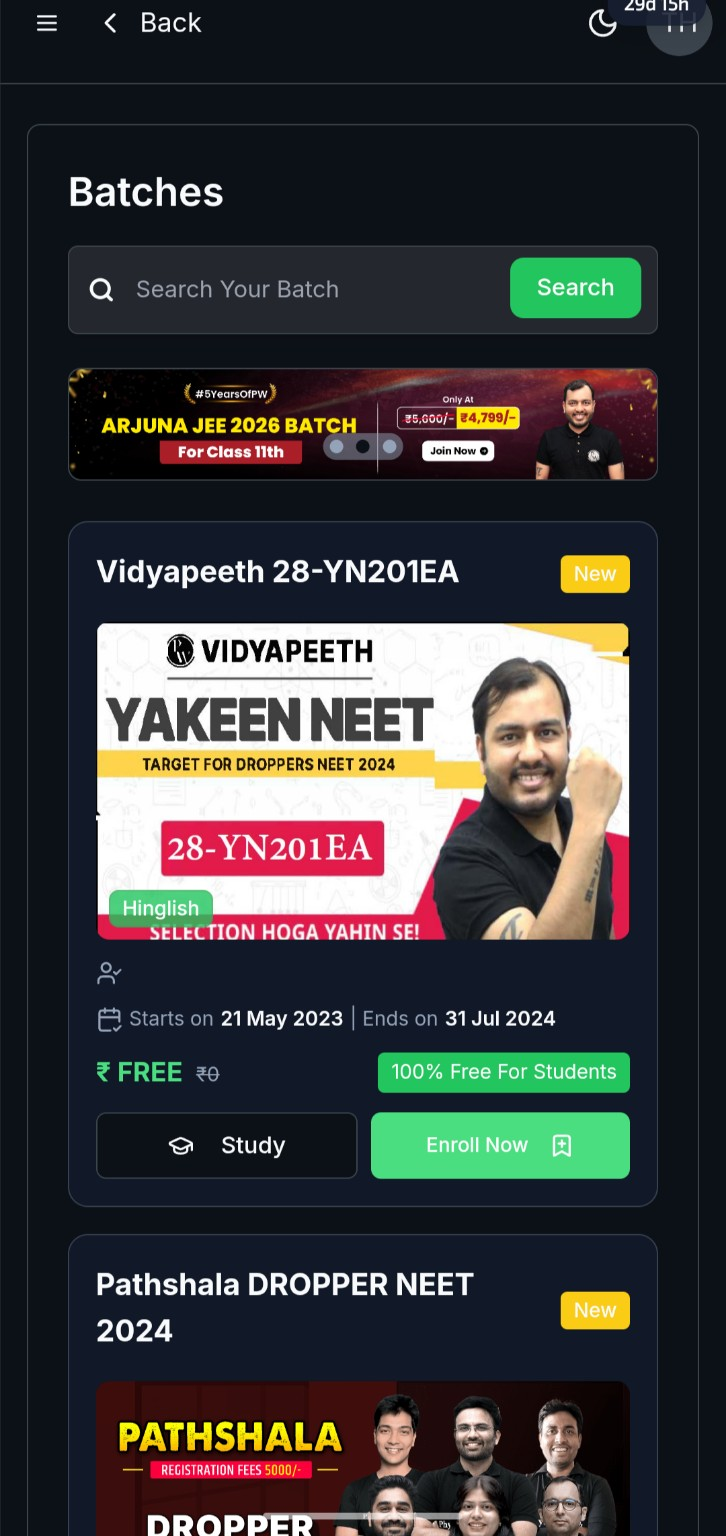
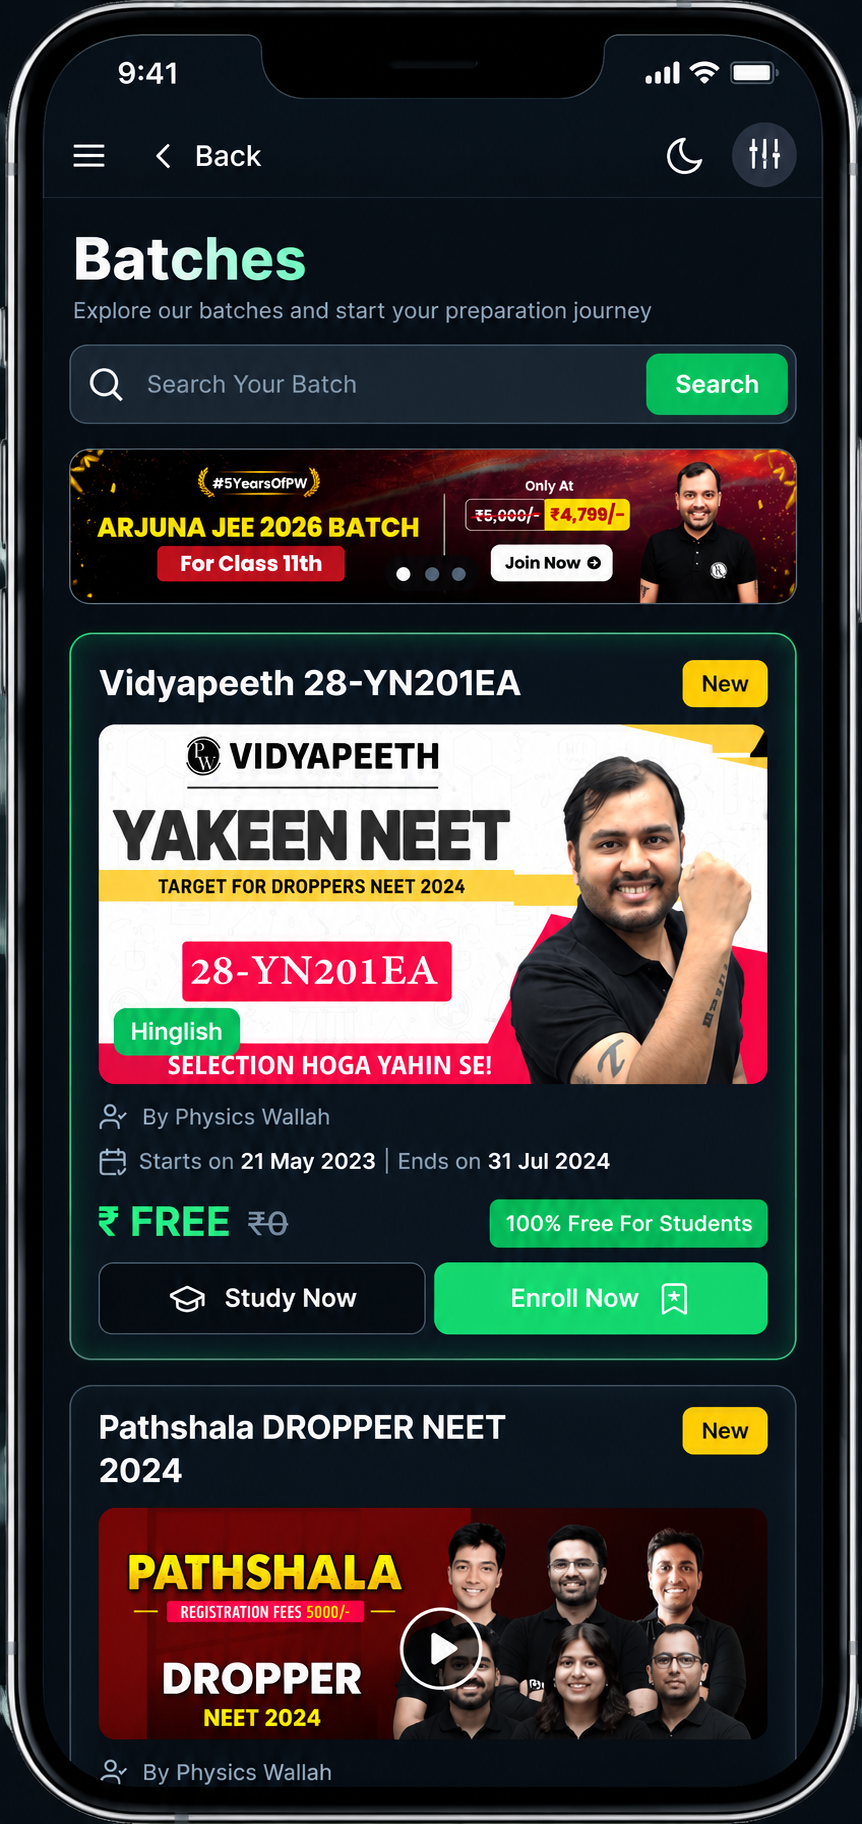
Add files via upload

diff --git a/style.css b/style.css
@@ -1,1 +1,4 @@
 *{box-sizing:border-box}html{scroll-behavior:smooth}body{margin:0;font-family:Inter,Arial,sans-serif;color:#111722;background:#fff}.container{width:min(1180px,calc(100% - 40px));margin:auto}a{text-decoration:none;color:inherit}.site-header{height:76px;background:#080d13;color:#fff;position:sticky;top:0;z-index:99;border-bottom:1px solid #1e252e}.nav{height:100%;display:flex;align-items:center;justify-content:space-between;gap:25px}.brand{display:flex;align-items:center;font-size:25px;font-weight:800;letter-spacing:-1.2px}.brand b{color:#ed101c}.brand small{display:block;color:#9aa2ad;font-size:8px;letter-spacing:.2px;margin-top:4px}.brand-icon{width:34px;height:34px;background:#fff;color:#0a0f15;border-radius:9px;display:grid;place-items:center;margin-right:9px;font-size:15px}.nav nav{height:100%;display:flex;align-items:center;gap:38px}.nav nav a{font-size:12px;font-weight:700;height:100%;display:flex;align-items:center;position:relative;color:#d9dde2}.nav nav a.active{color:#fff}.nav nav a.active:after{content:"";height:3px;position:absolute;left:0;right:0;bottom:0;background:#ef101b}.nav-download{background:#ef101b;color:#fff;border-radius:10px;padding:14px 21px;font-size:12px;font-weight:800;box-shadow:0 12px 28px #ef101b35}.hero{min-height:690px;background:#080d13;color:#fff;position:relative;overflow:hidden}.hero:before{content:"";position:absolute;inset:0;background:radial-gradient(circle at 80% 48%,#ef101b25,transparent 30%),linear-gradient(115deg,#080d13 0%,#0a0f15 52%,#0b1017 100%)}.hero-glow{position:absolute;border-radius:50%;filter:blur(2px)}.g1{width:500px;height:500px;right:-150px;top:-270px;background:#e50914}.g2{width:300px;height:300px;right:-120px;bottom:-180px;background:#e50914}.hero-line{position:absolute;width:650px;height:650px;border:1px solid #ef101b38;border-radius:50%;right:-260px;top:45px}.hero-grid{min-height:690px;display:grid;grid-template-columns:1.05fr .95fr;align-items:center;position:relative;z-index:2}.hero-copy{padding:55px 0}.eyebrow,.red-label{display:inline-block;color:#fff;background:#e5091430;border:1px solid #e5091460;border-radius:999px;padding:8px 14px;font-size:10px;font-weight:900;letter-spacing:1px}.hero h1{font-size:62px;line-height:1.03;letter-spacing:-3.8px;margin:20px 0 18px;max-width:670px}.hero h1 span{color:#f11a25}.hero-copy>p{font-size:16px;line-height:1.65;color:#b9c0ca;max-width:590px;margin:0}.hero-features{display:grid;grid-template-columns:repeat(4,1fr);gap:10px;margin:28px 0 25px;max-width:600px}.hero-features>div{display:flex;align-items:center;gap:8px}.hero-features i{width:31px;height:31px;border-radius:50%;background:#ef101b;display:grid;place-items:center;font-style:normal;font-size:11px}.hero-features b{display:block;font-size:10px}.hero-features small{display:block;color:#89929e;font-size:8px;margin-top:3px}.hero-btn{display:inline-flex;align-items:center;background:#ef101b;color:#fff;padding:16px 28px;border-radius:11px;font-size:17px;font-weight:900;box-shadow:0 15px 35px #ef101b35}.hero-btn strong{font-size:23px;margin-right:9px}.app-meta{font-size:11px;color:#aeb6c0;font-weight:700;margin-top:12px}.hero-stats{display:grid;grid-template-columns:repeat(4,1fr);max-width:600px;margin-top:32px;border:1px solid #28313c;border-radius:12px;background:#0d141cdd;overflow:hidden}.hero-stats>div{padding:15px 12px;border-right:1px solid #29323d;display:flex;gap:8px;align-items:center}.hero-stats>div:last-child{border:0}.hero-stats b{font-size:15px;color:#ef101b}.hero-stats span{font-size:8px;color:#b3bbc5;line-height:1.35}.hero-visual{height:650px;position:relative;display:flex;align-items:center;justify-content:center}.red-ring{position:absolute;width:470px;height:470px;border-radius:50%;border:2px solid #ef101b55;background:#ef101b13;right:0;top:105px}.red-ring.r2{width:620px;height:620px;right:-130px;top:30px;border-color:#ef101b22}.phone{width:300px;height:590px;border:8px solid #05080b;background:#05080b;border-radius:43px;overflow:hidden;transform:rotate(7deg);position:relative;z-index:6;box-shadow:0 35px 70px #000b,0 0 0 1px #414851}.phone img{width:100%;height:100%;object-fit:cover;object-position:top}.notch{position:absolute;z-index:3;width:92px;height:22px;left:50%;top:5px;transform:translateX(-50%);background:#05080b;border-radius:0 0 15px 15px}.floating{position:absolute;z-index:8;background:#151c25e8;border:1px solid #323c48;box-shadow:0 18px 35px #0006;border-radius:14px;padding:12px 15px;display:flex;gap:10px;align-items:center;width:180px}.floating>b{width:34px;height:34px;border-radius:50%;background:#e5091426;color:#ff2630;display:grid;place-items:center}.floating strong{display:block;font-size:10px}.floating small{display:block;color:#858f9b;font-size:8px;margin-top:3px}.f1{left:15px;top:180px}.f2{right:-15px;top:310px}.f3{right:-20px;bottom:105px}.hand-text{position:absolute;z-index:8;right:-20px;top:70px;font-size:22px;font-style:italic;font-weight:700;line-height:1.03;transform:rotate(-7deg)}.hand-text:after{content:"";display:block;width:80px;height:3px;background:#ef101b;margin:9px 0 0 auto;transform:rotate(-8deg)}.feature-section{padding:95px 0;background:#fff}.section-heading{text-align:center}.section-heading .red-label{color:#e50914;background:#fff0f0;border:0}.section-heading h2{font-size:43px;letter-spacing:-2.5px;margin:15px 0 9px}.section-heading h2 span{color:#e50914}.section-heading>p{color:#69727e;font-size:13px;margin:0 auto;max-width:600px;line-height:1.6}.feature-grid{display:grid;grid-template-columns:1.15fr 1fr 1fr;gap:16px;margin-top:45px}.feature-card{min-height:245px;border:1px solid #e6e9ed;border-radius:20px;padding:27px;position:relative;overflow:hidden;box-shadow:0 15px 40px #00000007;background:#fff}.feature-card.featured{grid-row:span 2;min-height:506px;background:linear-gradient(145deg,#df0712,#ff2731);border:0;color:#fff}.feature-card.wide{grid-column:2/4;display:flex;align-items:center;gap:35px}.num{position:absolute;right:22px;top:20px;font-size:9px;font-weight:900;color:#a4aab3}.featured .num{color:#ffffff80}.feature-icon{width:54px;height:54px;border-radius:15px;background:#ffe3e3;color:#e50914;display:grid;place-items:center;font-size:20px;font-weight:900;margin-bottom:22px}.feature-icon.blue{background:#e8f0ff;color:#3776d6}.feature-icon.green{background:#e4f7eb;color:#2d9a5e}.feature-icon.purple{background:#eee7ff;color:#7543ce}.feature-card h3{font-size:21px;line-height:1.13;margin:0 0 10px}.feature-card p{color:#6a7280;font-size:12px;line-height:1.65;max-width:270px}.featured p{color:#ffe8e8}.card-decoration{position:absolute;right:-35px;bottom:-60px;width:220px;height:220px;border-radius:50%;border:35px solid #ffffff14;display:grid;place-items:center;font-size:50px;color:#ffffff25}.mini-screen{width:190px;height:220px;border:6px solid #111;border-radius:25px;overflow:hidden;transform:rotate(4deg);flex:0 0 auto;box-shadow:0 15px 30px #0002}.mini-screen img{width:100%;height:100%;object-fit:cover;object-position:top}.wide-copy{position:relative}.dark-showcase{background:#080d13;color:#fff;padding:100px 0;overflow:hidden}.showcase-grid{display:grid;grid-template-columns:1fr 1fr;align-items:center;gap:80px}.dark-label{color:#ff2630;background:#ef101b18;border-color:#ef101b55}.dark-showcase h2{font-size:47px;line-height:1.04;letter-spacing:-2.6px;margin:18px 0}.dark-showcase h2 span{color:#ef101b}.dark-showcase>div>div>p{color:#aeb7c2;max-width:500px;line-height:1.7;font-size:14px}.show-list{margin-top:30px;max-width:470px}.show-list div{display:flex;gap:16px;align-items:center;border-top:1px solid #252e38;padding:15px 0}.show-list b{color:#ef101b;font-size:10px}.show-list span{font-size:12px;font-weight:700}.showcase-phone{height:470px;position:relative;display:grid;place-items:center}.showcase-phone .glow{position:absolute;width:350px;height:350px;background:#ef101b28;border-radius:50%;filter:blur(25px)}.phone.small{width:235px;height:450px;transform:rotate(-6deg)}.download-section{background:linear-gradient(115deg,#b9000a,#f11d28);color:#fff;overflow:hidden}.download-box{min-height:370px;display:grid;grid-template-columns:1fr .65fr;align-items:center}.dark-pill{display:inline-block;background:#72000880;border:1px solid #ff5660;color:#fff;padding:8px 13px;border-radius:999px;font-size:9px;font-weight:900;letter-spacing:1px}.download-copy h2{font-size:47px;letter-spacing:-2.6px;margin:17px 0 10px}.download-copy h2 span{color:#fff}.download-copy p{color:#ffe2e2;font-size:14px;line-height:1.6;max-width:560px}.white-btn{display:inline-flex;background:#fff;color:#d90812;padding:15px 27px;border-radius:10px;font-size:15px;font-weight:900;margin-top:10px}.download-copy>div:last-child{font-size:10px;font-weight:800;margin-top:12px}.download-art{height:370px;position:relative}.download-art .circle{position:absolute;width:430px;height:430px;border-radius:50%;background:#ffffff14;right:-80px;top:-20px}.download-phone{position:absolute;width:190px;height:355px;border:6px solid #090c11;border-radius:29px;overflow:hidden;right:130px;bottom:-28px;transform:rotate(7deg);box-shadow:0 30px 50px #0005}.download-phone img{width:100%;height:100%;object-fit:cover;object-position:top}.note{position:absolute;right:250px;top:85px;font-size:20px;font-style:italic;line-height:1.05;transform:rotate(-7deg)}.install{padding:90px 0}.steps{display:grid;grid-template-columns:1fr 35px 1fr 35px 1fr;align-items:center;margin-top:42px}.steps>div:not(.step-arrow){border:1px solid #e5e8ec;border-radius:17px;padding:25px;background:#fff}.steps b{display:grid;place-items:center;width:40px;height:40px;border-radius:50%;background:#e50914;color:#fff;font-size:13px}.steps h3{font-size:16px;margin:18px 0 7px}.steps p{font-size:11px;color:#707884;margin:0;line-height:1.5}.step-arrow{text-align:center;color:#b4bac2;font-size:30px}footer{background:#080d13;color:#fff;padding:32px 0;border-top:1px solid #202732}.footer{display:flex;align-items:center;justify-content:space-between}.footer .brand{font-size:20px}.footer-links{display:flex;gap:25px;font-size:11px;font-weight:700}.footer p{font-size:9px;color:#858e99}@media(max-width:900px){.nav nav{gap:18px}.hero-grid,.showcase-grid,.download-box{grid-template-columns:1fr}.hero-copy{text-align:center}.hero-copy>p{margin:auto}.hero-features,.hero-stats{margin-left:auto;margin-right:auto}.hero-visual{height:620px}.heading-row{display:block}.feature-grid{grid-template-columns:1fr 1fr}.feature-card.featured{grid-row:auto;min-height:300px}.feature-card.wide{grid-column:1/3}.download-box{padding-top:55px}.download-art{height:300px}.showcase-phone{order:-1}}@media(max-width:620px){.container{width:calc(100% - 28px)}.site-header{height:66px}.nav nav{display:none}.nav-download{padding:11px 13px;font-size:10px}.brand{font-size:20px}.brand-icon{width:29px;height:29px}.hero{min-height:auto}.hero-grid{min-height:auto}.hero-copy{padding:48px 0 5px}.hero h1{font-size:43px;letter-spacing:-2.4px}.hero-copy>p{font-size:14px}.hero-features{grid-template-columns:1fr 1fr;text-align:left}.hero-stats{grid-template-columns:1fr 1fr;text-align:left}.hero-stats>div{border-bottom:1px solid #29323d}.hero-visual{height:565px}.red-ring{width:400px;height:400px;right:50%;transform:translateX(50%);top:70px}.red-ring.r2{width:500px;height:500px;right:50%;transform:translateX(50%);top:20px}.phone{width:255px;height:500px}.floating{transform:scale(.8);transform-origin:center}.f1{left:-8px;top:155px}.f2{right:-15px;top:275px}.f3{right:-10px;bottom:75px}.hand-text{right:-2px;top:60px;font-size:16px}.feature-section,.install{padding:70px 0}.section-heading h2{font-size:32px}.feature-grid{grid-template-columns:1fr}.feature-card.featured{grid-row:auto}.feature-card.wide{grid-column:auto;display:block}.mini-screen{margin-top:25px}.dark-showcase{padding:75px 0}.dark-showcase h2{font-size:34px}.showcase-phone{height:420px}.phone.small{width:210px;height:405px}.download-copy h2{font-size:36px}.download-art{height:280px}.download-phone{width:155px;height:290px;right:50%;transform:translateX(50%) rotate(7deg)}.note{display:none}.steps{grid-template-columns:1fr;gap:12px}.step-arrow{display:none}.footer{display:block}.footer-links{margin:22px 0}.footer p{text-align:left}}
+/* Updated app screenshot treatment */
+.phone img,.mini-screen img,.download-phone img{object-fit:cover;object-position:center top;}
+.phone{background:#05080b;}
